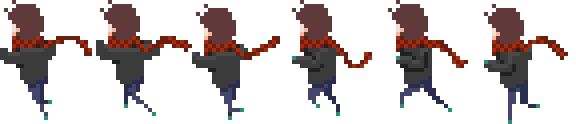
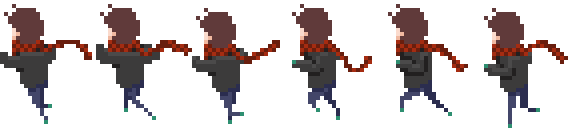
Standarizing hitboxes

diff --git a/Classes/Player.cpp b/Classes/Player.cpp
@@ -25,69 +25,70 @@
 		std::vector<int> tempHeight(13);
 		std::vector<int> tempImages(13);
 
+
 		tempSprite.at(NOT_READY) = "Images/Player/Idle_Down.png";
-		tempWidth.at(NOT_READY) = 44;
-		tempHeight.at(NOT_READY) = 120;
+		tempWidth.at(NOT_READY) = 96;
+		tempHeight.at(NOT_READY) = 132;
 		tempImages.at(NOT_READY) = 7;
 		
 		tempSprite.at(IDLE_DOWN) = "Images/Player/Idle_Down.png";
-		tempWidth.at(IDLE_DOWN) = 44;
-		tempHeight.at(IDLE_DOWN) = 120;
+		tempWidth.at(IDLE_DOWN) = 96;
+		tempHeight.at(IDLE_DOWN) = 132;
 		tempImages.at(IDLE_DOWN) = 7;
 
 		tempSprite.at(IDLE_RIGHT) = "Images/Player/Idle_Right.png";
-		tempWidth.at(IDLE_RIGHT) = 40;
-		tempHeight.at(IDLE_RIGHT) = 124;
+		tempWidth.at(IDLE_RIGHT) = 96;
+		tempHeight.at(IDLE_RIGHT) = 132;
 		tempImages.at(IDLE_RIGHT) = 6;
 
 		tempSprite.at(IDLE_LEFT) = "Images/Player/Idle_Left.png";
-		tempWidth.at(IDLE_LEFT) = 40;
-		tempHeight.at(IDLE_LEFT) = 124;
+		tempWidth.at(IDLE_LEFT) = 96;
+		tempHeight.at(IDLE_LEFT) = 132;
 		tempImages.at(IDLE_LEFT) = 6;
 
 		tempSprite.at(IDLE_UP) = "Images/Player/Idle_Up.png";
-		tempWidth.at(IDLE_UP) = 44;
-		tempHeight.at(IDLE_UP) = 120;
+		tempWidth.at(IDLE_UP) = 96;
+		tempHeight.at(IDLE_UP) = 132;
 		tempImages.at(IDLE_UP) = 7;
 
 		tempSprite.at(RUN_DOWN) = "Images/Player/Run_Down.png";
-		tempWidth.at(RUN_DOWN) = 72;
-		tempHeight.at(RUN_DOWN) = 120;
+		tempWidth.at(RUN_DOWN) = 96;
+		tempHeight.at(RUN_DOWN) = 132;
 		tempImages.at(RUN_DOWN) = 6;
 
 		tempSprite.at(RUN_RIGHT) = "Images/Player/Run_Right.png";
-		tempWidth.at(RUN_RIGHT) = 80;
-		tempHeight.at(RUN_RIGHT) = 124;
+		tempWidth.at(RUN_RIGHT) = 96;
+		tempHeight.at(RUN_RIGHT) = 132;
 		tempImages.at(RUN_RIGHT) = 6;
 
 		tempSprite.at(RUN_LEFT) = "Images/Player/Run_Left.png";
-		tempWidth.at(RUN_LEFT) = 80;
-		tempHeight.at(RUN_LEFT) = 124;
+		tempWidth.at(RUN_LEFT) = 96;
+		tempHeight.at(RUN_LEFT) = 132;
 		tempImages.at(RUN_LEFT) = 6;
 
 		tempSprite.at(RUN_UP) = "Images/Player/Run_Up.png";
-		tempWidth.at(RUN_UP) = 80;
+		tempWidth.at(RUN_UP) = 96;
 		tempHeight.at(RUN_UP) = 132;
 		tempImages.at(RUN_UP) = 6;
 
 		tempSprite.at(RUN_DOWN_RIGHT) = "Images/Player/Run_Down_Right.png";
-		tempWidth.at(RUN_DOWN_RIGHT) = 76;
-		tempHeight.at(RUN_DOWN_RIGHT) = 116;
+		tempWidth.at(RUN_DOWN_RIGHT) = 96;
+		tempHeight.at(RUN_DOWN_RIGHT) = 132;
 		tempImages.at(RUN_DOWN_RIGHT) = 6;
 
 		tempSprite.at(RUN_DOWN_LEFT) = "Images/Player/Run_Down_Left.png";
-		tempWidth.at(RUN_DOWN_LEFT) = 76;
-		tempHeight.at(RUN_DOWN_LEFT) = 116;
+		tempWidth.at(RUN_DOWN_LEFT) = 96;
+		tempHeight.at(RUN_DOWN_LEFT) = 132;
 		tempImages.at(RUN_DOWN_LEFT) = 6;
 
 		tempSprite.at(RUN_UP_RIGHT) = "Images/Player/Run_Up_Right.png";
 		tempWidth.at(RUN_UP_RIGHT) = 96;
-		tempHeight.at(RUN_UP_RIGHT) = 124;
+		tempHeight.at(RUN_UP_RIGHT) = 132;
 		tempImages.at(RUN_UP_RIGHT) = 6;
 
 		tempSprite.at(RUN_UP_LEFT) = "Images/Player/Run_Up_Left.png";
 		tempWidth.at(RUN_UP_LEFT) = 96;
-		tempHeight.at(RUN_UP_LEFT) = 124;
+		tempHeight.at(RUN_UP_LEFT) = 132;
 		tempImages.at(RUN_UP_LEFT) = 6;
 
 		Helper helper = Helper();

diff --git a/Classes/CombatManager.cpp b/Classes/CombatManager.cpp
@@ -692,10 +692,10 @@ int CombatManager::combatMain(std::vector<Character*>& p)
 
 	int charImageX = 0;
 	int charImageY = 0;
-	int charImageW = 128;
-	int charImageH = 128;
-	SDL_Rect characterBox = { 472, 225, 128, 128 };
-	int charAnimationPixelShift = 128;
+	int charImageW = participants[player_index.at(0)]->getImageWidth();
+	int charImageH = participants[player_index.at(0)]->getImageHeight();;
+	SDL_Rect characterBox = { 472, 225, charImageW, charImageH };
+	int charAnimationPixelShift = charImageW;
 	int delaysPerFrame = 0;
 	int frame = 0;
 	
@@ -739,14 +739,14 @@ int CombatManager::combatMain(std::vector<Character*>& p)
 	m_combatGraphics.init();
 
 	//Create Player with Player Texture, translate it, then set it to animate the sprite
-	int player = m_combatGraphics.genQuadTexture(144, 144, "Images/Player/Idle_Down.png", "player", 0, 6);
+	int player = m_combatGraphics.genQuadTexture(charImageW, charImageH/1.5, "Images/Player/Idle_Down.png", "player", 0, 7);
 	m_combatGraphics.translateObjectByPixel(player, SCREEN_WIDTH / 5, SCREEN_HEIGHT / 3, 0.0);
 	m_combatGraphics.setIdleAnimationType(player, 1);
 	//Create Enemy with Player Texture, translate it, retexture it to owl, then set it to animate the sprite
 	int enemy[2];
 	for (int i = 0; i < enemy_index.size(); i++)
 	{
-		enemy[i] = m_combatGraphics.genQuadTexture(144, 144, "Images/Player/Idle_Down.png", "player", 0, 6);
+		enemy[i] = m_combatGraphics.genQuadTexture(charImageW, charImageH/2, "Images/Player/Idle_Down.png", "player", 0, 6);
 		m_combatGraphics.translateObjectByPixel(enemy[i], ((i/2) + 4) * SCREEN_WIDTH / 5, SCREEN_HEIGHT / (3 - (i)), 0.0);
 		m_combatGraphics.retextureQuad(enemy[i], "Images/Enemies/shadow_cluster/OWL_BROWN_READY.png", "owl");
 		m_combatGraphics.setIdleAnimationType(enemy[i], 1);
@@ -964,7 +964,8 @@ int CombatManager::combatMain(std::vector<Character*>& p)
 			//m_combatDialogManager.AddMessage(ss.str());
 			//PLACE THE ATTACK ANIMATIONS HERE USING THE atk VARIABLE
 			//std::cout << atk;
-			if (atk == "Attack") {
+			if (atk == "Attack")
+			{
 				glm::vec3 playerToEnemyVector = m_combatGraphics.getVectorFromTo(player, enemy[t]);
 				glm::vec3 enemyToPlayerVector = m_combatGraphics.getVectorFromTo(enemy[t], player);
 				glm::mat4 motion;
@@ -981,6 +982,7 @@ int CombatManager::combatMain(std::vector<Character*>& p)
 					m_combatGraphics.addTextsToRender(m_combatDialogManager.GetTextToRender());
 					m_combatGraphics.idle();
 				}
+				m_combatGraphics.setIdleAnimationType(player, 1);
 			}
 			else if (atk == "Fireball") {
 				//std::cout << "Fireball Reached";

diff --git a/Classes/mainGame.cpp b/Classes/mainGame.cpp
@@ -645,13 +645,13 @@ int characterCreateScreen()
 	int faith = 1;
 	int charImageX = 0;
 	int charImageY = 0;
-	int charImageW = 44;
-	int charImageH = 120;
+	int charImageW = 96;
+	int charImageH = 132;
 	int delaysPerFrame = 0;
 	int frame = 0;
 	int attributeX = 245;
 
-	SDL_Rect characterBox = { 516, 225, charImageW, charImageH };
+	SDL_Rect characterBox = { 490, 225, charImageW, charImageH };
 	SDL_Rect pointsAllocatedRectangle = { 227, 32, 0, 0 };
 	SDL_Rect strengthTextRectangle = { attributeX, 115, 0, 0 };
 	SDL_Rect intelligenceTextRectangle = { attributeX, 205, 0, 0 };

diff --git a/Classes/Character.cpp b/Classes/Character.cpp
@@ -225,7 +225,7 @@
 	void Character::changeTexture(int newTexture)
 	{
 		setSpriteSheetNumber(newTexture);
-		rectangle = { (int)(xPosition+(rectangle.w/2)-(getImageWidth()/2)), (int)(yPosition+rectangle.h-getImageHeight()), getImageWidth(), getImageHeight() };
+		rectangle = { (int)xPosition, (int)yPosition, getImageWidth(), getImageHeight() };
 		drawRectangle = { 0, 0, getImageWidth(), getImageHeight() };
 		currentFrame = 0;
 	}
